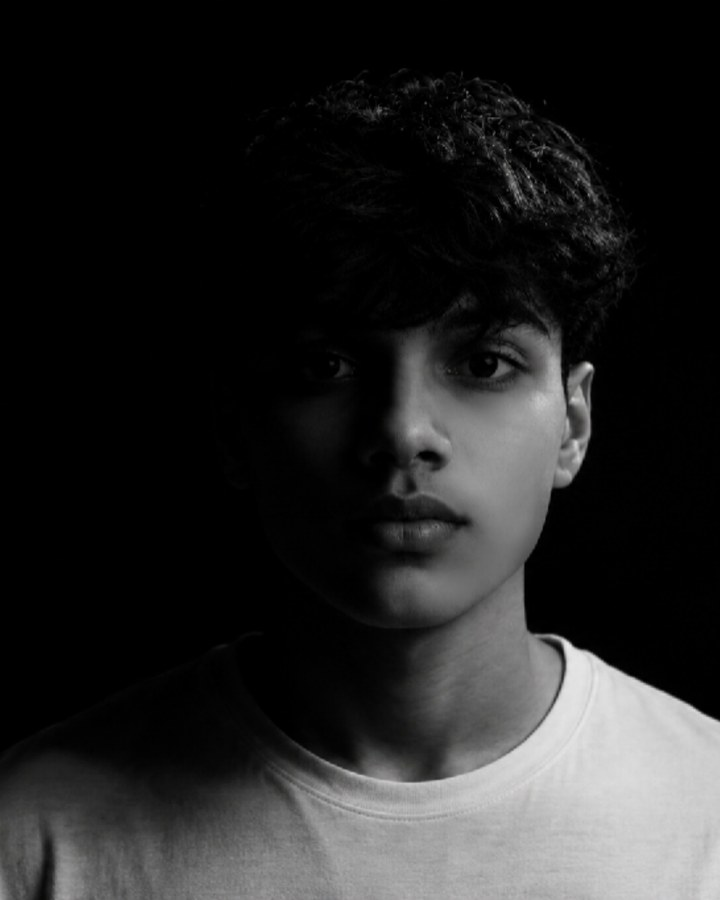
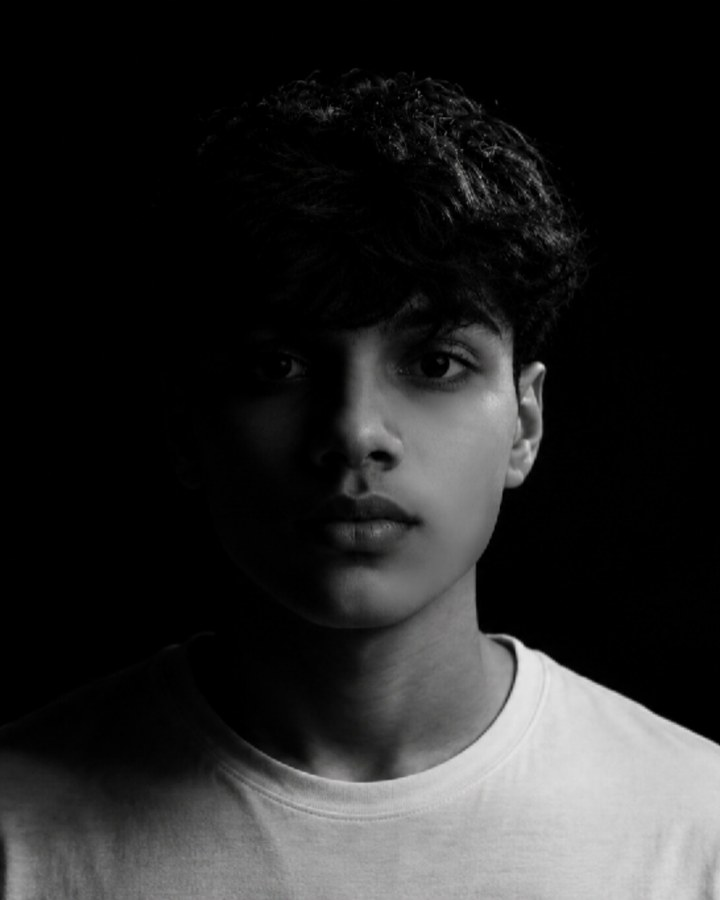
Re-center founder photo crop (#9)
Claude-Session: https://claude.ai/code/session_012cuiNd4YuwWBAABuonuCTv

diff --git a/index.html b/index.html
@@ -238,7 +238,7 @@
       <div class="container">
         <div class="founder">
           <figure class="founder__photo reveal">
-            <img loading="lazy" decoding="async" src="assets/founder-kartik-sharma.webp" alt="Kartik Sharma, founder of Vobet Media" width="720" height="900" />
+            <img loading="lazy" decoding="async" src="assets/founder-kartik-sharma.webp?v=2" alt="Kartik Sharma, founder of Vobet Media" width="720" height="900" />
           </figure>
           <div class="founder__body">
             <div class="eyebrow reveal">Meet the founder</div>
